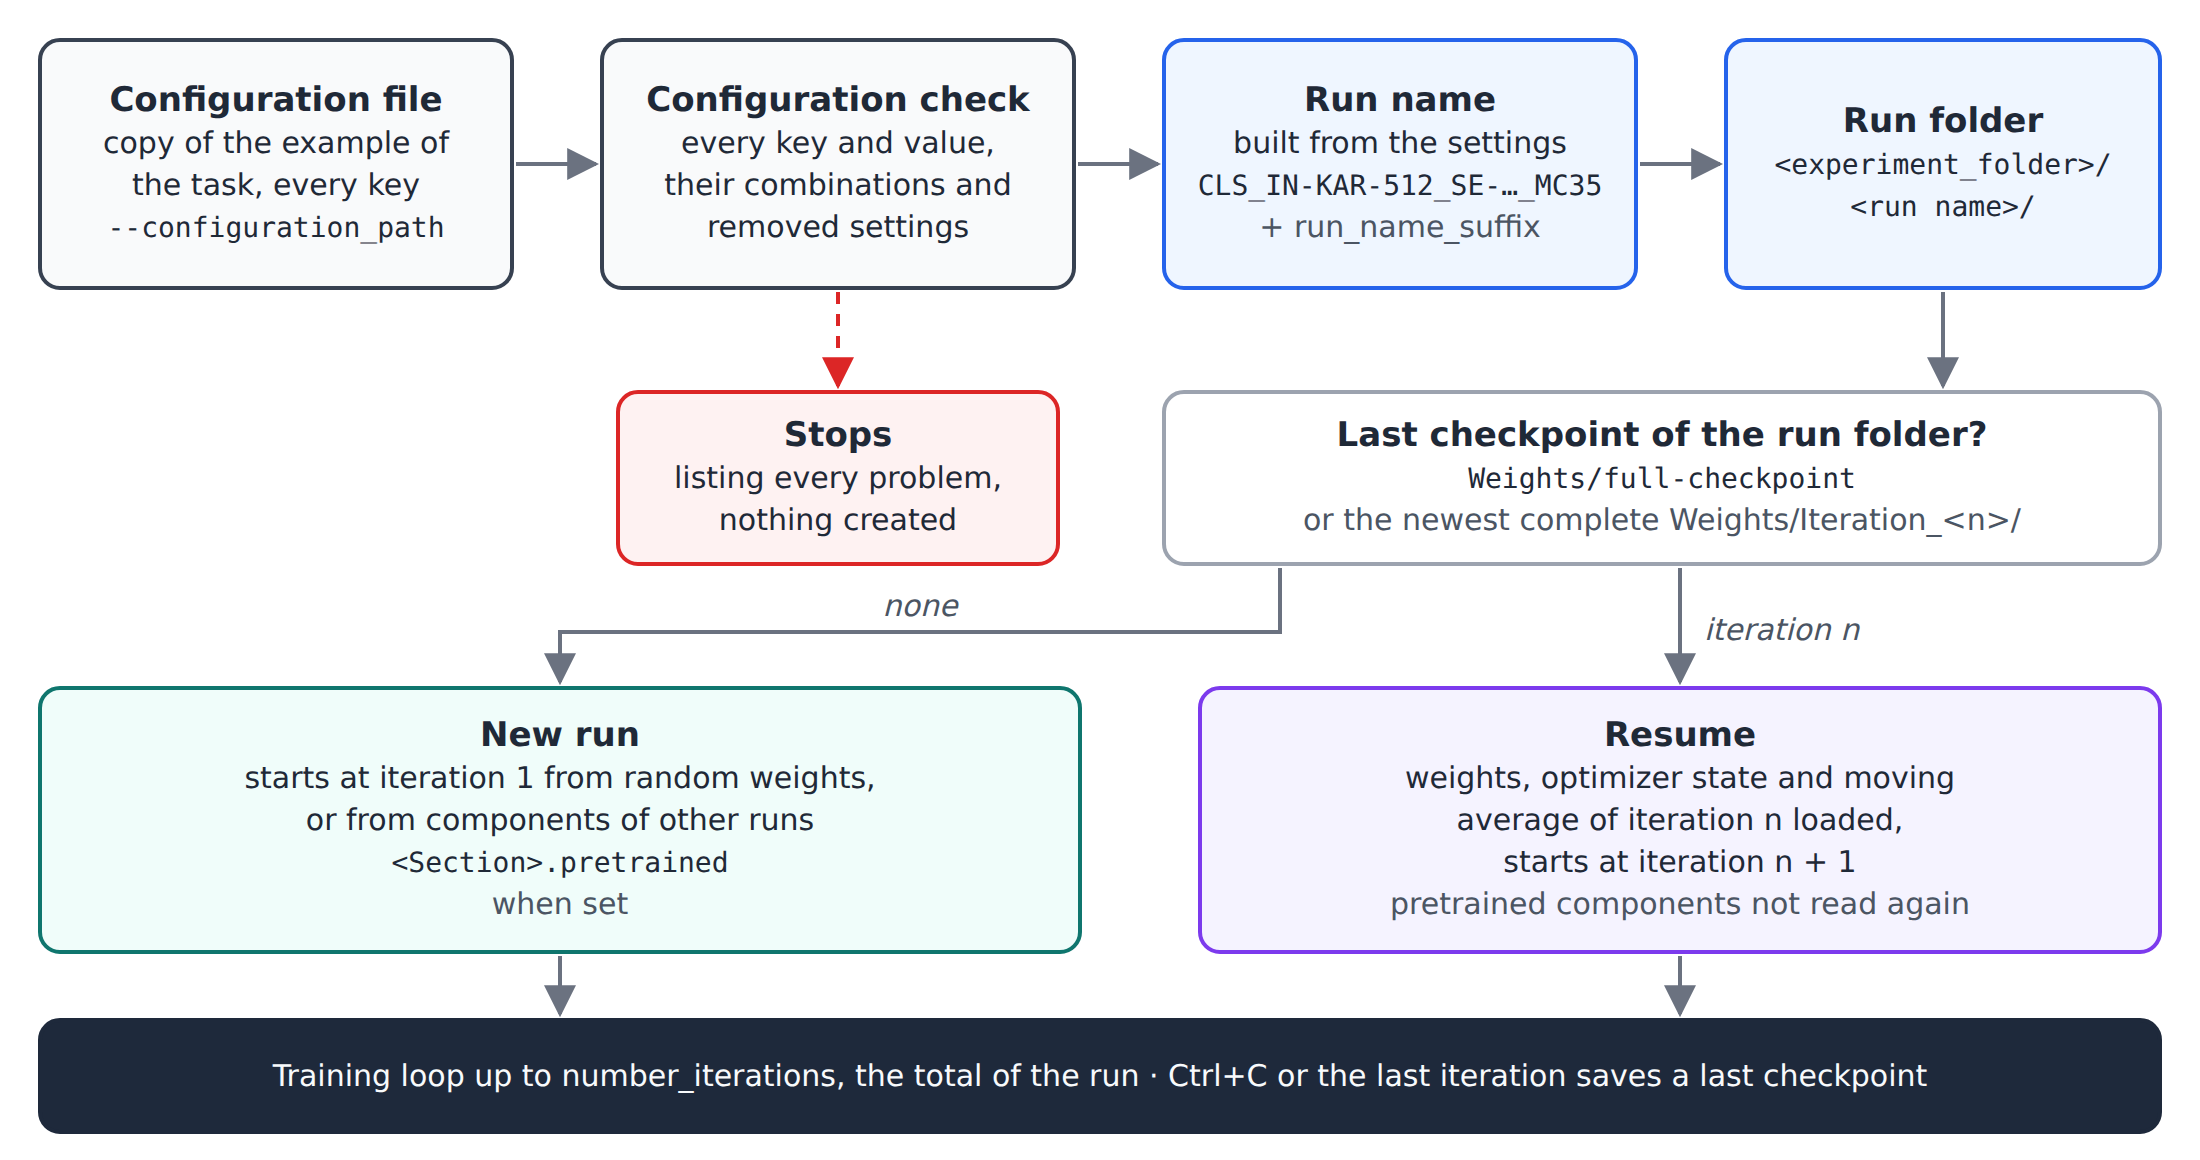
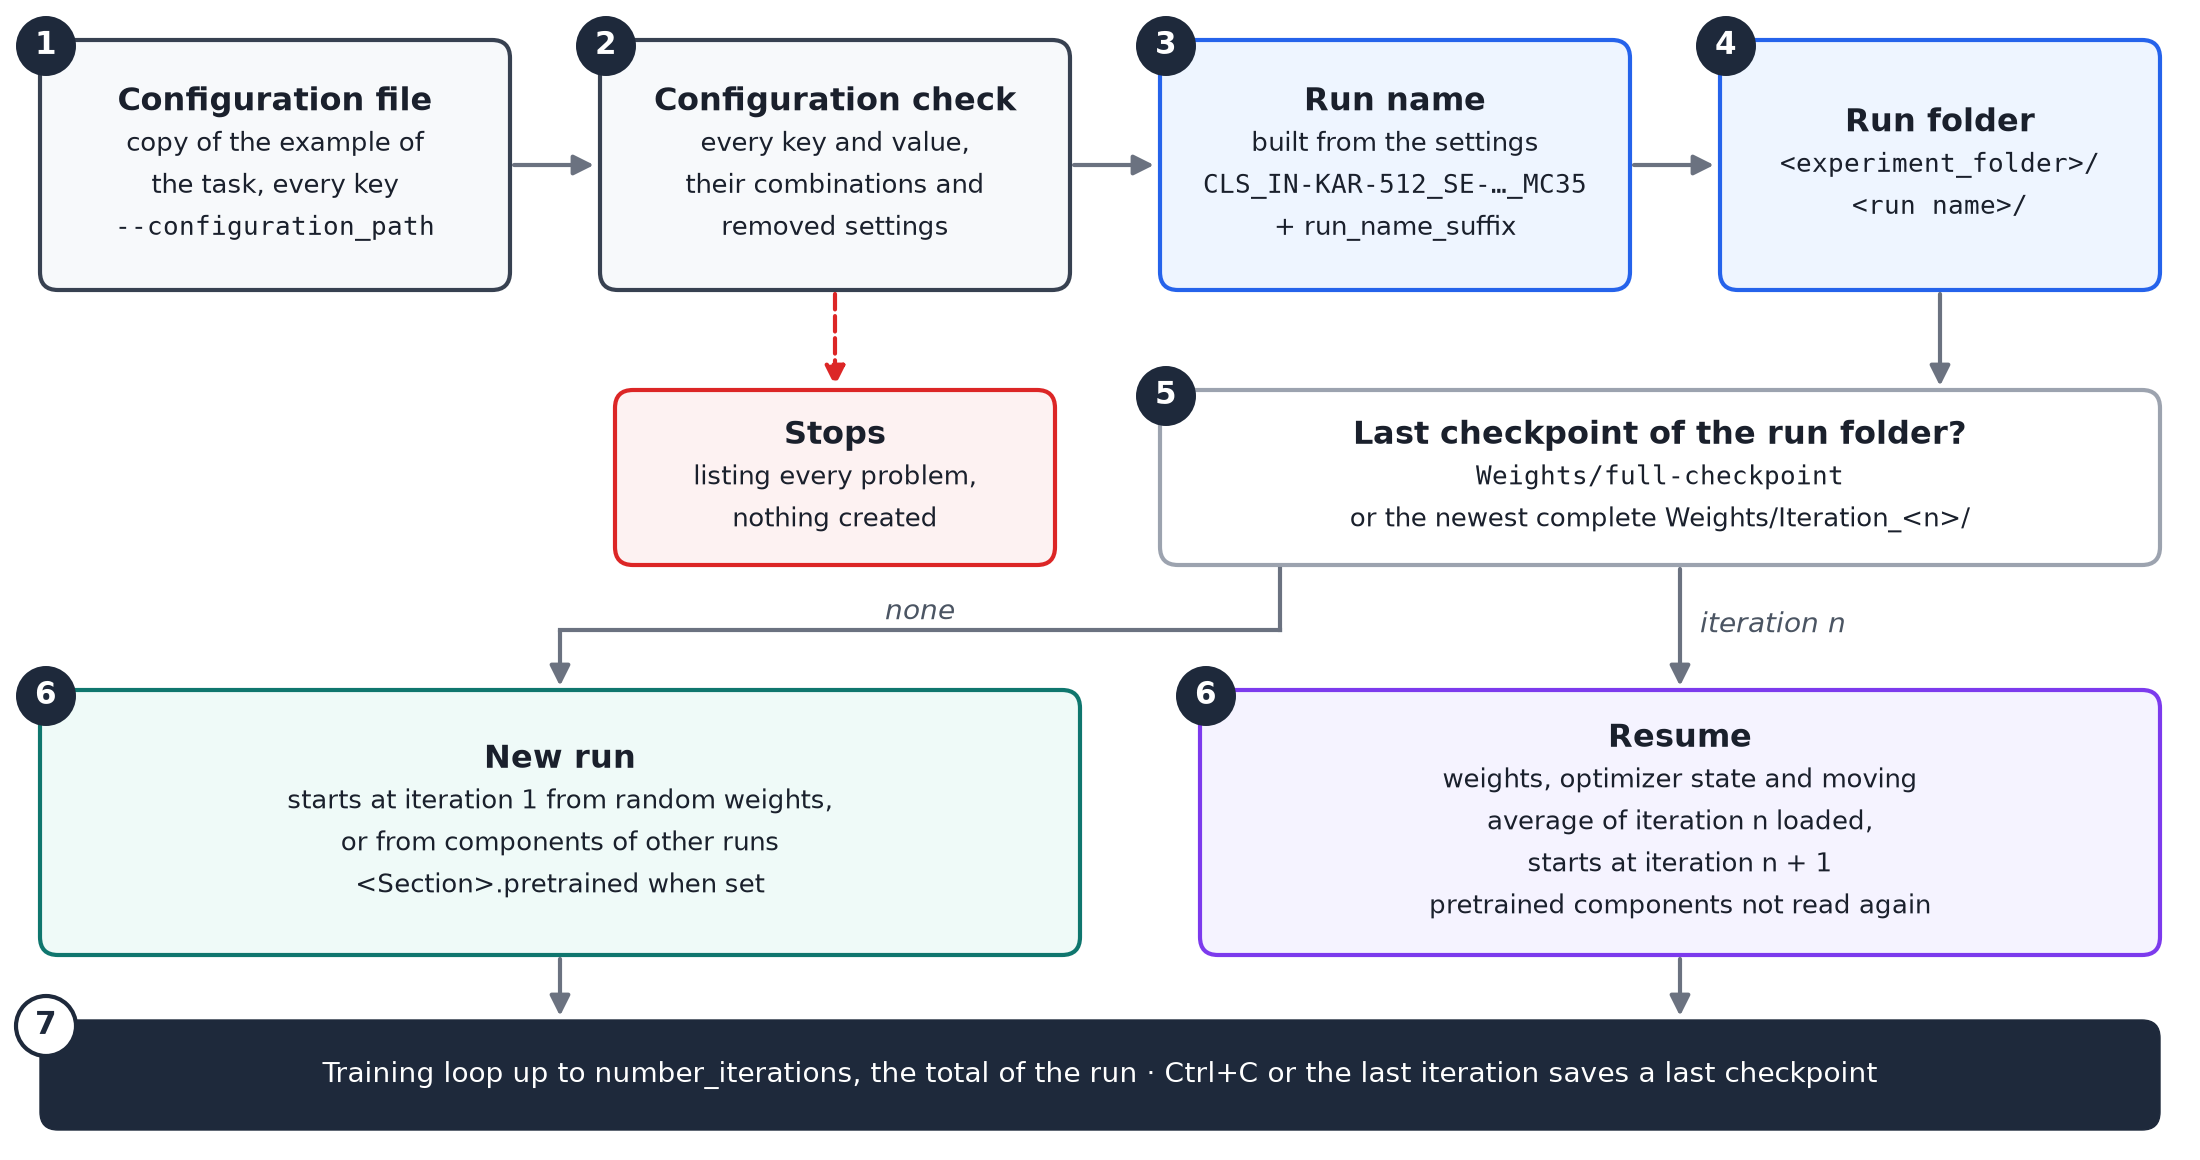
[DOCS] Number the steps of README/launch_flow.png (1 configuration file to 7 training loop, the new run and the resume both step 6), as the user asked on 2026-11-27, redrawn by the new documentation/presentation/figures/draw_launch_flow.py since the former script was not kept, same boxes, texts and 
Claude-Session: https://claude.ai/code/session_016uCt2UMaYr5m7swFibr1L4

diff --git a/documentation/presentation/figures/draw_launch_flow.py b/documentation/presentation/figures/draw_launch_flow.py
@@ -1,0 +1,144 @@
+"""
+Draws the launch flow of the "Launching A Run" subsection of the README Training section (README/launch_flow.png):
+the steps of `vision_training.main` from the configuration file to the training loop, each numbered, with the stop on
+an invalid configuration and the choice between a new run and a resume made by the last checkpoint of the run folder.
+It only draws boxes and text, the run name being the one of the README classifier. From the repository root:
+
+    uv run python -m documentation.presentation.figures.draw_launch_flow --output_path README/launch_flow.png
+"""
+
+import argparse
+import matplotlib
+
+matplotlib.use("Agg")
+
+import matplotlib.pyplot as plt
+
+from matplotlib.patches import Circle, FancyBboxPatch
+from pathlib import Path
+
+from vision_training.utilities.os_utilities import format_path_link
+
+# Text, arrow and fill colours, the edge colour of every box going with its fill
+TEXT_COLOUR, ARROW_COLOUR, NUMBER_COLOUR = "#1a202c", "#6b7280", "#1e293b"
+GREY_BOX, BLUE_BOX, RED_BOX = ("#f7f9fb", "#374151"), ("#eef5ff", "#2563eb"), ("#fdf2f2", "#dc2626")
+QUESTION_BOX, NEW_RUN_BOX, RESUME_BOX = ("#ffffff", "#9ca3af"), ("#effaf8", "#0f766e"), ("#f5f3ff", "#7c3aed")
+
+
+def draw_box(axes: plt.Axes, left: float, bottom: float, width: float, height: float, colours: tuple, title: str,
+             lines: list, step: str = "") -> None:
+    """
+    Draws one step of the launch flow as a rounded box with its bold title and its lines, and its step number in a
+    dark disc on its top-left corner, so that the README reader follows the steps in order.
+
+    Args:
+        axes (plt.Axes): The axes of the figure, in pixels of the output image.
+        left (float): The left edge of the box.
+        bottom (float): The bottom edge of the box.
+        width (float): The width of the box.
+        height (float): The height of the box.
+        colours (tuple): The fill and edge colours.
+        title (str): The bold first line.
+        lines (list): The lines under the title, as (text, is_code) pairs.
+        step (str): The step number written on the corner, empty for none.
+    """
+    axes.add_patch(FancyBboxPatch(xy=(left, bottom), width=width, height=height, boxstyle="round,pad=0,rounding_size=18",
+                                  facecolor=colours[0], edgecolor=colours[1], linewidth=3))
+    # Title and lines stacked from the top, centred in the box
+    total_height = 46 + 42 * len(lines)
+    current_y = bottom + height / 2 + total_height / 2 - 23
+    axes.text(x=left + width / 2, y=current_y, s=title, ha="center", va="center", fontsize=23, fontweight="bold",
+              color=TEXT_COLOUR)
+    for text, is_code in lines:
+        current_y -= 42
+        axes.text(x=left + width / 2, y=current_y, s=text, ha="center", va="center", fontsize=19,
+                  color=TEXT_COLOUR, family="monospace" if is_code else "sans-serif")
+    # Step number in a disc over the top-left corner
+    if step:
+        axes.add_patch(Circle(xy=(left + 6, bottom + height - 6), radius=30, facecolor=NUMBER_COLOUR, zorder=4))
+        axes.text(x=left + 6, y=bottom + height - 6, s=step, ha="center", va="center", fontsize=22, fontweight="bold",
+                  color="white", zorder=5)
+
+
+def draw_arrow(axes: plt.Axes, points: list, colour: str = ARROW_COLOUR, dashed: bool = False) -> None:
+    """
+    Draws an arrow along a polyline, its head at the last point, for the transitions between the steps.
+
+    Args:
+        axes (plt.Axes): The axes of the figure.
+        points (list): The (x, y) points of the polyline.
+        colour (str): The colour of the arrow.
+        dashed (bool): Whether the line is dashed (the stop on an invalid configuration).
+    """
+    for start, end in zip(points[:-2], points[1:-1]):
+        axes.plot([start[0], end[0]], [start[1], end[1]], color=colour, linewidth=3, linestyle="--" if dashed else "-")
+    axes.annotate("", xy=points[-1], xytext=points[-2],
+                  arrowprops={"arrowstyle": "-|>,head_width=0.6,head_length=1.2", "color": colour, "linewidth": 3,
+                              "linestyle": "--" if dashed else "-", "shrinkA": 0, "shrinkB": 0})
+
+
+def draw_launch_flow(output_path: Path) -> None:
+    """
+    Draws the whole launch flow into a 2200 x 1160 pixel PNG file.
+
+    Args:
+        output_path (Path): The PNG file written.
+    """
+    figure = plt.figure(figsize=(22, 11.6), dpi=100)
+    axes = figure.add_axes(rect=(0, 0, 1, 1))
+    axes.set_xlim(0, 2200)
+    axes.set_ylim(0, 1160)
+    axes.axis("off")
+    # First row: from the configuration file to the run folder
+    draw_box(axes=axes, left=40, bottom=870, width=470, height=250, colours=GREY_BOX, title="Configuration file",
+             lines=[("copy of the example of", False), ("the task, every key", False), ("--configuration_path", True)],
+             step="1")
+    draw_box(axes=axes, left=600, bottom=870, width=470, height=250, colours=GREY_BOX, title="Configuration check",
+             lines=[("every key and value,", False), ("their combinations and", False), ("removed settings", False)],
+             step="2")
+    draw_box(axes=axes, left=1160, bottom=870, width=470, height=250, colours=BLUE_BOX, title="Run name",
+             lines=[("built from the settings", False), ("CLS_IN-KAR-512_SE-…_MC35", True), ("+ run_name_suffix", False)],
+             step="3")
+    draw_box(axes=axes, left=1720, bottom=870, width=440, height=250, colours=BLUE_BOX, title="Run folder",
+             lines=[("<experiment_folder>/", True), ("<run name>/", True)], step="4")
+    for left_end, right_start in [(510, 600), (1070, 1160), (1630, 1720)]:
+        draw_arrow(axes=axes, points=[(left_end + 4, 995), (right_start - 6, 995)])
+    # Stop on an invalid configuration, below the check
+    draw_box(axes=axes, left=615, bottom=595, width=440, height=175, colours=RED_BOX, title="Stops",
+             lines=[("listing every problem,", False), ("nothing created", False)])
+    draw_arrow(axes=axes, points=[(835, 866), (835, 774)], colour="#dc2626", dashed=True)
+    # Last checkpoint question, below the run folder
+    draw_box(axes=axes, left=1160, bottom=595, width=1000, height=175, colours=QUESTION_BOX,
+             title="Last checkpoint of the run folder?",
+             lines=[("Weights/full-checkpoint", True), ("or the newest complete Weights/Iteration_<n>/", False)], step="5")
+    draw_arrow(axes=axes, points=[(1940, 866), (1940, 774)])
+    # New run or resume, then the training loop
+    draw_box(axes=axes, left=40, bottom=205, width=1040, height=265, colours=NEW_RUN_BOX, title="New run",
+             lines=[("starts at iteration 1 from random weights,", False), ("or from components of other runs", False),
+                    ("<Section>.pretrained when set", False)], step="6")
+    draw_box(axes=axes, left=1200, bottom=205, width=960, height=265, colours=RESUME_BOX, title="Resume",
+             lines=[("weights, optimizer state and moving", False), ("average of iteration n loaded,", False),
+                    ("starts at iteration n + 1", False), ("pretrained components not read again", False)], step="6")
+    draw_arrow(axes=axes, points=[(1280, 591), (1280, 530), (560, 530), (560, 474)])
+    axes.text(x=920, y=548, s="none", ha="center", va="center", fontsize=20, style="italic", color="#4b5563")
+    draw_arrow(axes=axes, points=[(1680, 591), (1680, 474)])
+    axes.text(x=1700, y=535, s="iteration n", ha="left", va="center", fontsize=20, style="italic", color="#4b5563")
+    axes.add_patch(FancyBboxPatch(xy=(40, 30), width=2120, height=110, boxstyle="round,pad=0,rounding_size=18",
+                                  facecolor="#1e293b", edgecolor="#1e293b"))
+    axes.text(x=1100, y=85, s="Training loop up to number_iterations, the total of the run · Ctrl+C or the last "
+              "iteration saves a last checkpoint", ha="center", va="center", fontsize=20, color="white")
+    axes.add_patch(Circle(xy=(46, 134), radius=30, facecolor="#ffffff", edgecolor="#1e293b", linewidth=3, zorder=4))
+    axes.text(x=46, y=134, s="7", ha="center", va="center", fontsize=22, fontweight="bold", color="#1e293b", zorder=5)
+    for x in (560, 1680):
+        draw_arrow(axes=axes, points=[(x, 201), (x, 144)])
+    figure.savefig(output_path, dpi=100, facecolor="white")
+    plt.close(figure)
+
+
+if __name__ == "__main__":
+    # Path of the PNG file, README/launch_flow.png for the README
+    parser = argparse.ArgumentParser(description="Draw the launch flow figure of the README.")
+    parser.add_argument("--output_path", type=Path, required=True)
+    arguments = parser.parse_args()
+    draw_launch_flow(output_path=arguments.output_path)
+    print(f"Wrote {format_path_link(path=arguments.output_path)}")

diff --git a/README.md b/README.md
@@ -125,6 +125,8 @@ Once a dataset is ready, start from the example configuration of its task:
 uv run python -m vision_training.main --configuration_path="vision_training/configurations/classification/my_configuration.yaml"
 ```
 
+The figure below numbers the steps of a launch, from the configuration file to the training loop:
+
 <p align="center">
   <img src="README/launch_flow.png" width="100%" />
 </p>
